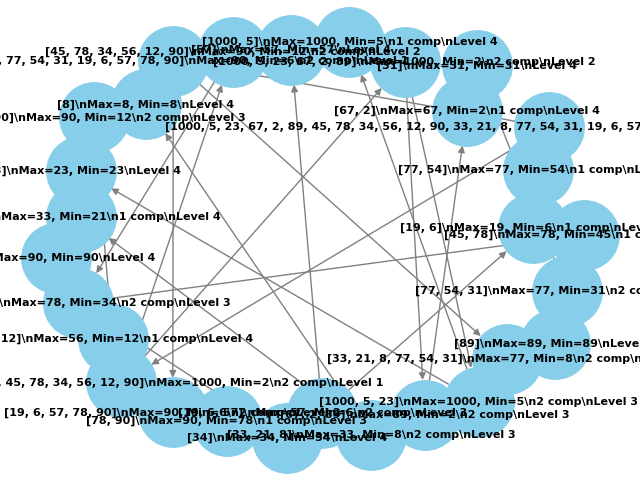
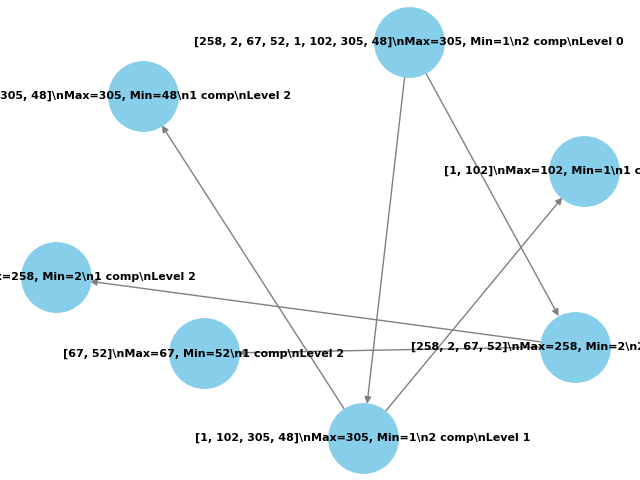
feat: Add diagram and enhance max-min selection algorithm visualization

diff --git a/main.py b/main.py
@@ -13,8 +13,11 @@ def maxmin_select(arr, low, high, G=None, parent=None, level=0):
     if parent:
         G.add_edge(parent, node_id)
 
+    print(f"Nível de recursão {level}: processando {arr[low:high + 1]}")
+
     if low == high:
         G.nodes[node_id]['label'] = f"[{arr[low]}]\\nMax={arr[low]}, Min={arr[low]}\\nLevel {level}"
+        print(f"Base case: um elemento {arr[low]}")
         return arr[low], arr[low], G
 
     if high == low + 1:
@@ -23,6 +26,7 @@ def maxmin_select(arr, low, high, G=None, parent=None, level=0):
         else:
             max_val, min_val = arr[high], arr[low]
         G.nodes[node_id]['label'] = f"[{arr[low]}, {arr[high]}]\\nMax={max_val}, Min={min_val}\\n1 comp\\nLevel {level}"
+        print(f"Base case: dois elementos {arr[low]} e {arr[high]}, max={max_val}, min={min_val}")
         return max_val, min_val, G
 
     mid = (low + high) // 2
@@ -33,13 +37,14 @@ def maxmin_select(arr, low, high, G=None, parent=None, level=0):
     final_min = min(min1, min2)
     G.nodes[node_id]['label'] = f"[{', '.join(map(str, arr[low:high + 1]))}]\\nMax={final_max}, Min={final_min}\\n2 comp\\nLevel {level}"
 
+    print(f"Nível de recursão {level}: combinado {arr[low:high + 1]}, max={final_max}, min={final_min}")
+
     return final_max, final_min, G
 
 def find_max_min(arr):
     if not arr:
         return None, None, None
     max_val, min_val, G = maxmin_select(arr, 0, len(arr) - 1)
-
 
     pos = nx.spring_layout(G, k=50)  # Ajusta o espaçamento dos nós
     labels = nx.get_node_attributes(G, 'label')
@@ -50,7 +55,7 @@ def find_max_min(arr):
     return max_val, min_val
 
 if __name__ == "__main__":
-    arr = [1000, 5, 23, 67, 2, 89, 45, 78, 34, 56, 12, 90, 33, 21, 8, 77, 54, 31, 19, 6,57,78, 90]
+    arr = [258, 2, 67, 52, 1, 102, 305,48]
     maximum, minimum = find_max_min(arr)
     print(f"Array: {arr}")
     print(f"Max: {maximum}, Min: {minimum}")

diff --git a/README.md b/README.md
@@ -35,32 +35,36 @@ Aqui está a explicação detalhada do código, organizada em seções expansív
 - <b>Linha 9</b>: Gera um ID único (<b>`node_id`</b>) usando <b>`low`</b> e <b>`high`</b>.  
 - <b>Linha 10</b>: Cria o <i>rótulo inicial</i> do nó com o subarray e o nível.  
 - <b>Linha 11</b>: Adiciona o nó ao grafo com o rótulo inicial.  
-- <b>Linhas 13-14</b>: Conecta o nó atual ao <b>`parent`</b> com uma <i>aresta</i>, estruturando a árvore.
+- <b>Linhas 13-14</b>: Conecta o nó atual ao <b>`parent`</b> com uma <i>aresta</i>, estruturando a árvore.  
+- <b>Linha 16</b>: Imprime o nível de recursão atual e o subarray sendo processado, ajudando na depuração.
 
 #### Casos Base
-- <b>Linhas 16-18 (Caso Base 1)</b>: Se <b>`low == high`</b> (um elemento):  
+- <b>Linhas 18-21 (Caso Base 1)</b>: Se <b>`low == high`</b> (um elemento):  
   - Atualiza o rótulo com o valor como <i>máximo</i> e <i>mínimo</i>.  
+  - Imprime uma mensagem indicando o caso base com um elemento.  
   - Retorna esses valores e o grafo.  
-- <b>Linhas 20-25 (Caso Base 2)</b>: Se <b>`high == low + 1`</b> (dois elementos):  
+- <b>Linhas 23-29 (Caso Base 2)</b>: Se <b>`high == low + 1`</b> (dois elementos):  
   - Compara <b>`arr[low]`</b> e <b>`arr[high]`</b>:  
     - Se <b>`arr[low] > arr[high]`</b>, <b>`max_val = arr[low]`</b> e <b>`min_val = arr[high]`</b>, senão o inverso.  
   - Atualiza o rótulo com <i>máximo</i>, <i>mínimo</i> e <b>1 comparação</b> (<i>`1 comp`</i>).  
+  - Imprime uma mensagem com os dois elementos, o máximo e o mínimo calculados.  
   - Retorna os valores e o grafo.
 
 #### Divisão e Conquista
-- <b>Linha 27</b>: Calcula o <i>ponto médio</i> (<b>`mid`</b>) para dividir o array.  
-- <b>Linhas 28-29</b>: Executa chamadas <i>recursivas</i> de <b>`maxmin_select`</b>:  
+- <b>Linha 31</b>: Calcula o <i>ponto médio</i> (<b>`mid`</b>) para dividir o array.  
+- <b>Linhas 32-33</b>: Executa chamadas <i>recursivas</i> de <b>`maxmin_select`</b>:  
   - Metade esquerda: <b>`low`</b> a <b>`mid`</b>.  
   - Metade direita: <b>`mid + 1`</b> a <b>`high`</b>.  
   - Passa o nó atual como <b>`parent`</b> e incrementa o <b>`level`</b>.
 
 #### Combinação
-- <b>Linhas 31-32</b>: Combina os resultados:  
+- <b>Linhas 35-36</b>: Combina os resultados:  
   - <i>Máximo final</i>: <b>`max(max1, max2)`</b>.  
   - <i>Mínimo final</i>: <b>`min(min1, min2)`</b>.  
   - Realiza <b>2 comparações</b>.  
-- <b>Linha 33</b>: Atualiza o rótulo com o subarray, <i>máximo</i>, <i>mínimo</i> e <b>2 comp</b>.  
-- <b>Linha 35</b>: Retorna <i>máximo</i>, <i>mínimo</i> e o grafo.
+- <b>Linha 37</b>: Atualiza o rótulo com o subarray, <i>máximo</i>, <i>mínimo</i> e <b>2 comp</b>.  
+- <b>Linha 39</b>: Imprime o nível de recursão, o subarray combinado, o máximo e o mínimo calculados.  
+- <b>Linha 41</b>: Retorna <i>máximo</i>, <i>mínimo</i> e o grafo.
 
 </details>
 
@@ -70,29 +74,28 @@ Aqui está a explicação detalhada do código, organizada em seções expansív
 <br>
 
 #### Execução e Validação
-- <b>Linha 38</b>: Define uma função auxiliar que retorna <b>`None`</b> se o array estiver <i>vazio</i>.  
-- <b>Linha 41</b>: Chama <b>`maxmin_select`</b> com índices <b>0</b> e <b>`len(arr) - 1`</b>, obtendo <i>máximo</i>, <i>mínimo</i> e o grafo.
+- <b>Linha 44</b>: Define uma função auxiliar que retorna <b>`None`</b> se o array estiver <i>vazio</i>.  
+- <b>Linha 47</b>: Chama <b>`maxmin_select`</b> com índices <b>0</b> e <b>`len(arr) - 1`</b>, obtendo <i>máximo</i>, <i>mínimo</i> e o grafo.
 
 #### Geração do Diagrama
-- <b>Linhas 43-44</b>: Cria a pasta <b>`assets`</b> se não existir.  
-- <b>Linha 46</b>: Define a <i>posição dos nós</i> com <b>`spring_layout`</b> e <b>`k=50`</b> para espaçamento.  
-- <b>Linha 47</b>: Extrai os <i>rótulos</i> dos nós do grafo.  
-- <b>Linha 48</b>: Desenha o grafo com <b>`nx.draw`</b>, ajustando:  
+- <b>Linha 50</b>: Define a <i>posição dos nós</i> com <b>`spring_layout`</b> e <b>`k=50`</b> para espaçamento.  
+- <b>Linha 51</b>: Extrai os <i>rótulos</i> dos nós do grafo.  
+- <b>Linha 52</b>: Desenha o grafo com <b>`nx.draw`</b>, ajustando:  
   - <i>Tamanho dos nós</i>, <i>cores</i>, <i>fonte</i> e <i>arestas</i>.  
-- <b>Linha 49</b>: Salva o diagrama em <b>`assets/diagrama_maxmin.png`</b>.  
-- <b>Linha 50</b>: Fecha a figura para <i>liberar memória</i>.
+- <b>Linha 53</b>: Salva o diagrama em <b>`diagrama_maxmin.png`</b> na raiz do projeto.  
+- <b>Linha 54</b>: Fecha a figura para <i>liberar memória</i>.
 
 #### Retorno
-- <b>Linha 52</b>: Retorna o <i>máximo</i> e o <i>mínimo</i>.
+- <b>Linha 56</b>: Retorna o <i>máximo</i> e o <i>mínimo</i>.
 
 </details>
 
 <details>
-<summary><b><span style="color:#e67e22">Teste (Linhas 54-59)</span></b></summary>
+<summary><b><span style="color:#e67e22">Teste (Linhas 58-63)</span></b></summary>
 
 <br>
 
-- Define um <i>array de teste</i> com <b>23 elementos</b>.  
+- Define um <i>array de teste</i> com <b>8 elementos</b>: `[258, 2, 67, 52, 1, 102, 305, 48]`.  
 - Chama <b>`find_max_min`</b> para calcular o <i>máximo</i> e o <i>mínimo</i>.  
 - Exibe o <i>array</i>, o <i>máximo</i>, o <i>mínimo</i> e uma mensagem confirmando a geração do diagrama em <b>`/diagrama_maxmin.png`</b>.
 
@@ -161,4 +164,8 @@ Um diagrama ilustrando a recursão está disponível em `/diagrama_maxmin.png`. 
 - Níveis da árvore de recursão e comparações.
 
 ![Diagrama MaxMin Select](diagrama_maxmin.png)
+
+- Outra forma de visualizar 
+
+![diagrama_maxminpuml.png](diagrama_maxminpuml.png)
 ---
